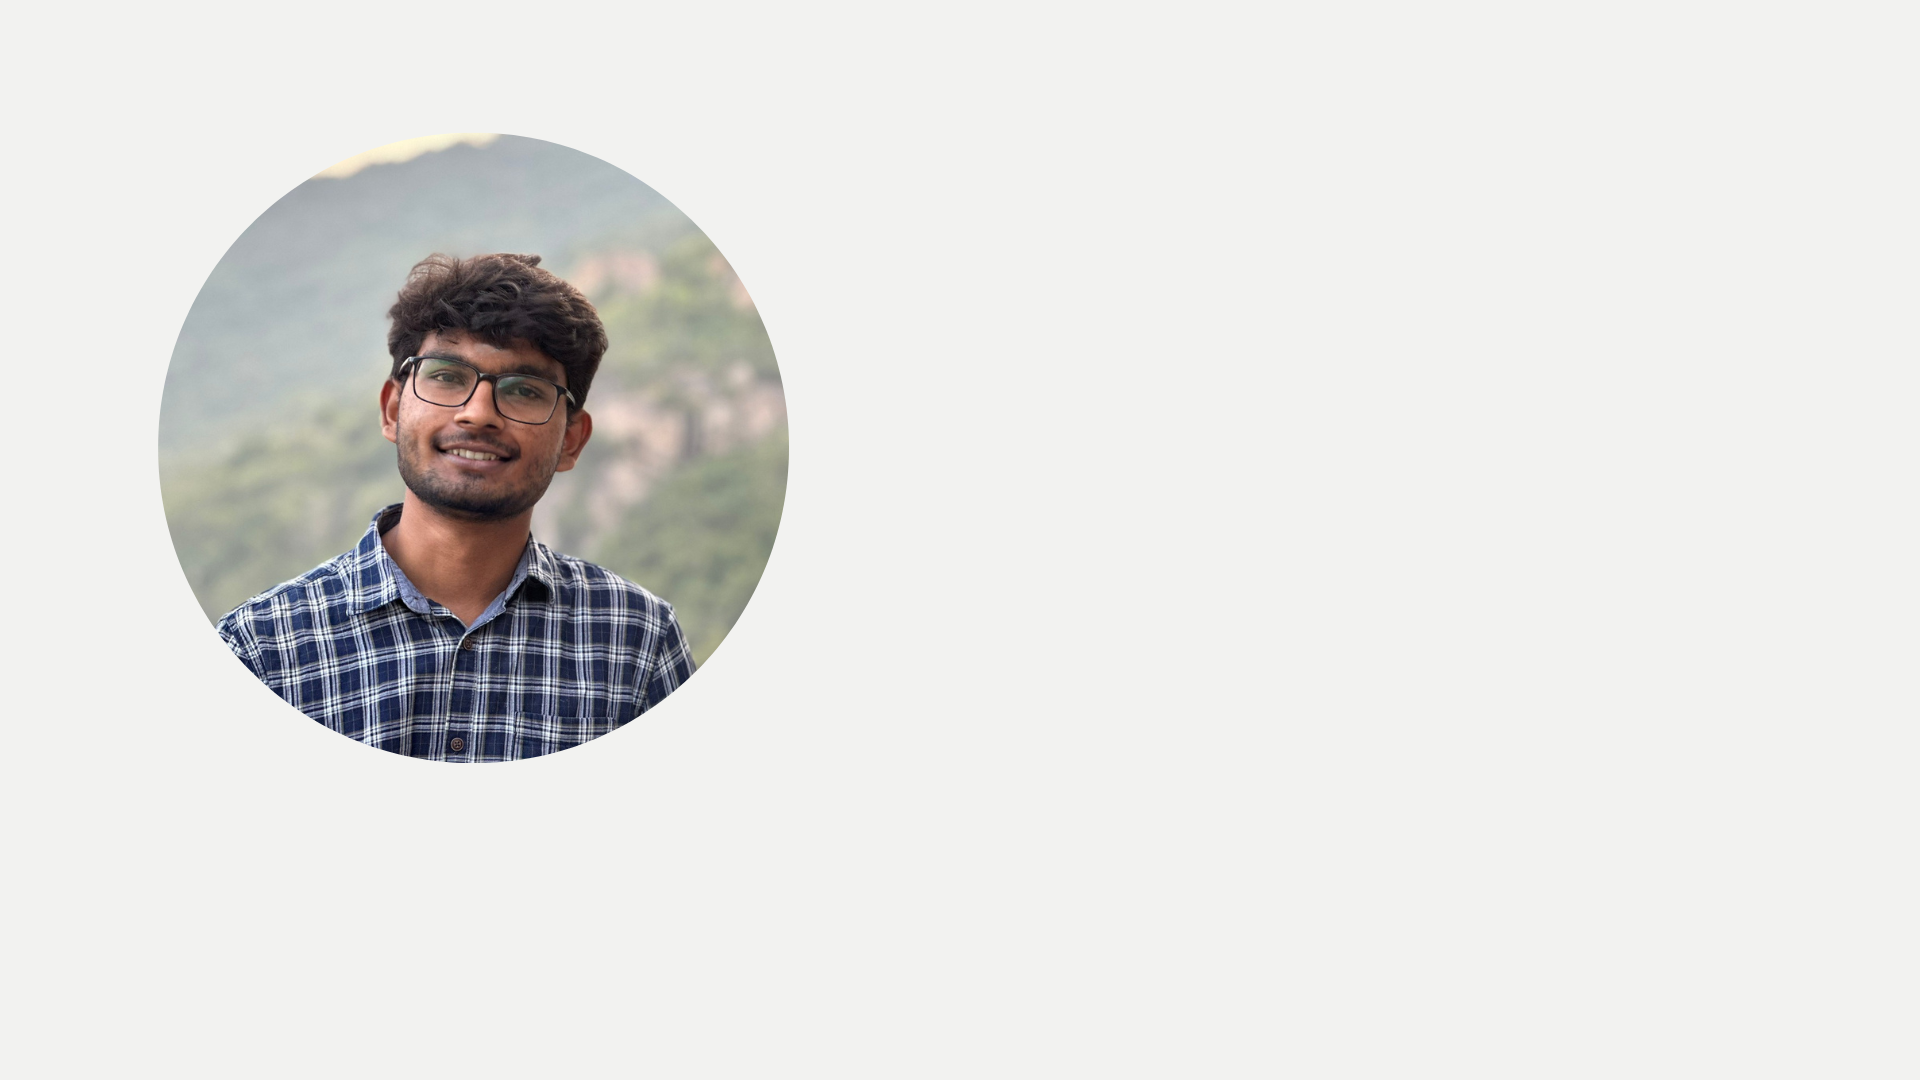
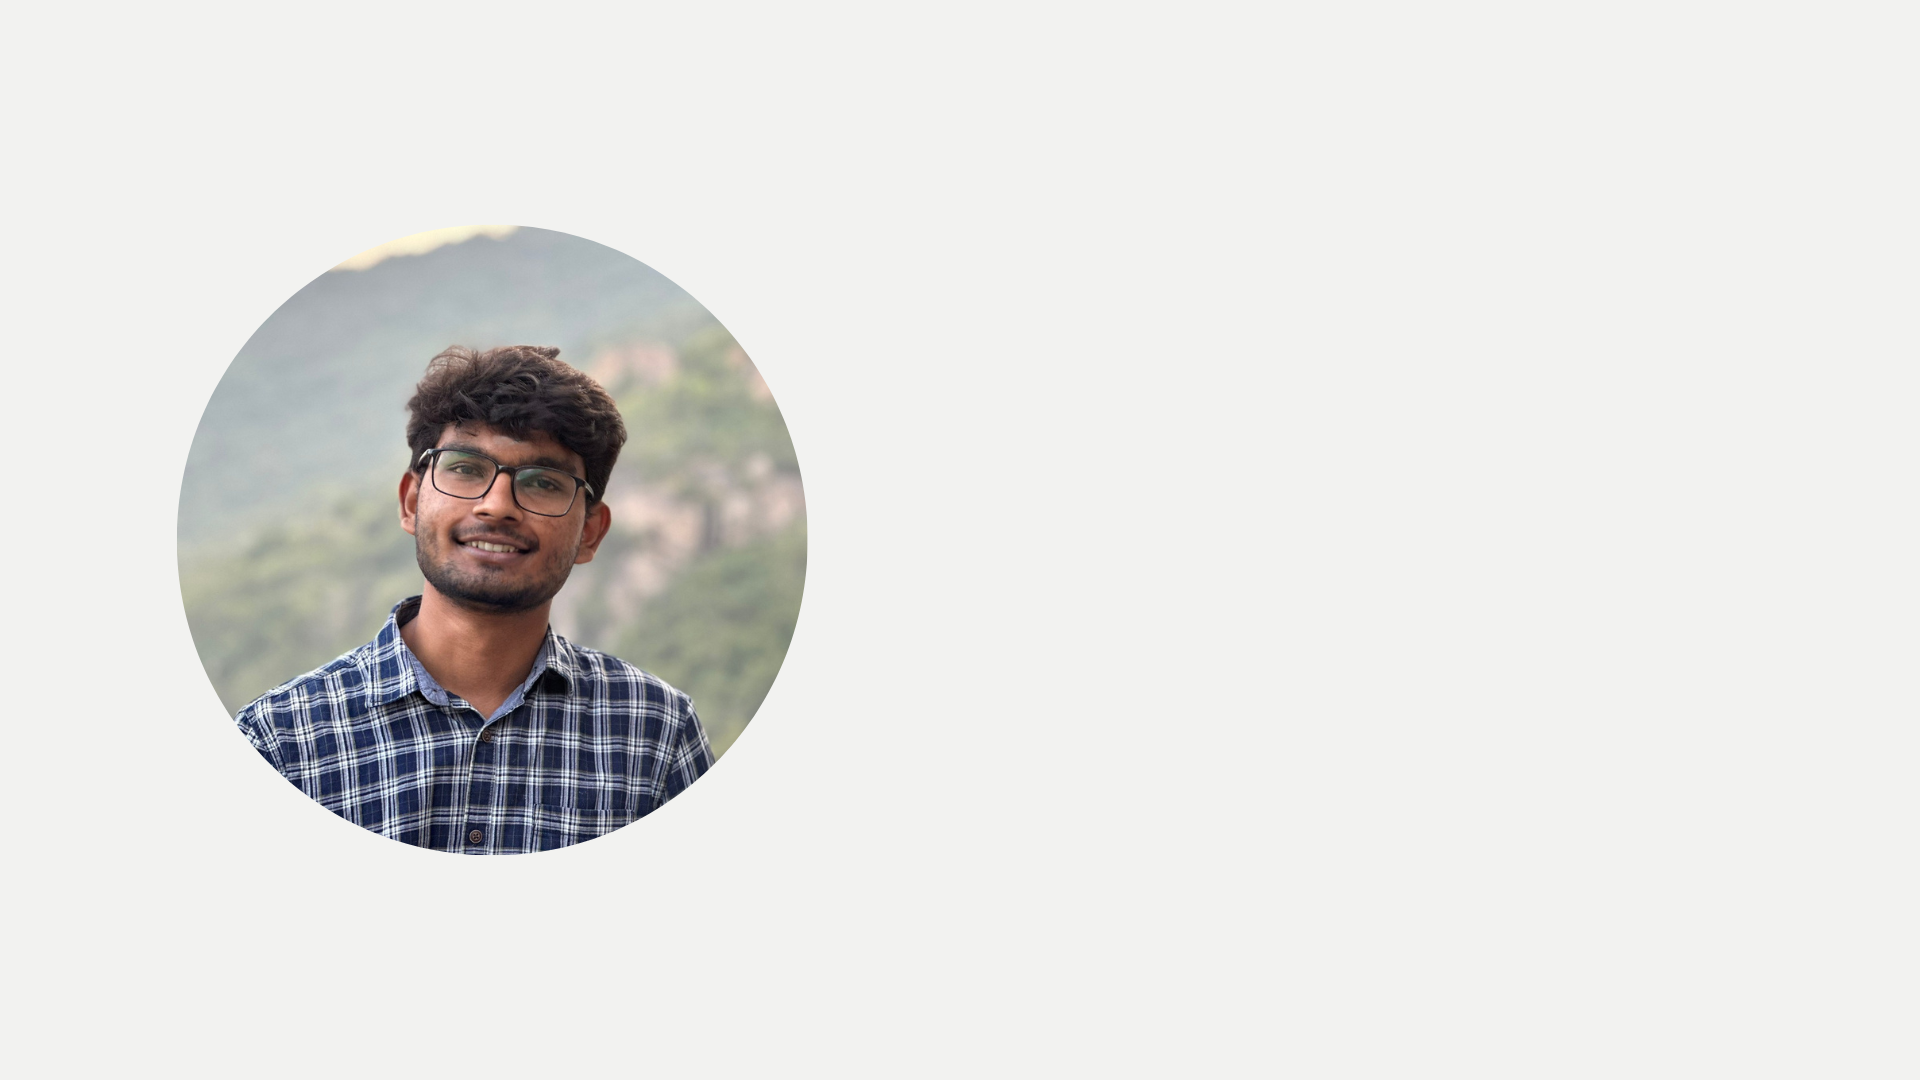
Updates images

Changed region(s): [[0.0625, 0.1222, 0.4375, 0.7944]]

diff --git a/assets/css/style.css b/assets/css/style.css
@@ -286,6 +286,7 @@ h6 {
   height: 100vh;
   background: url("../img/hero-bg.png") top right no-repeat;
   background-size: cover;
+  background-position: center center;
   position: relative;
 }
 
